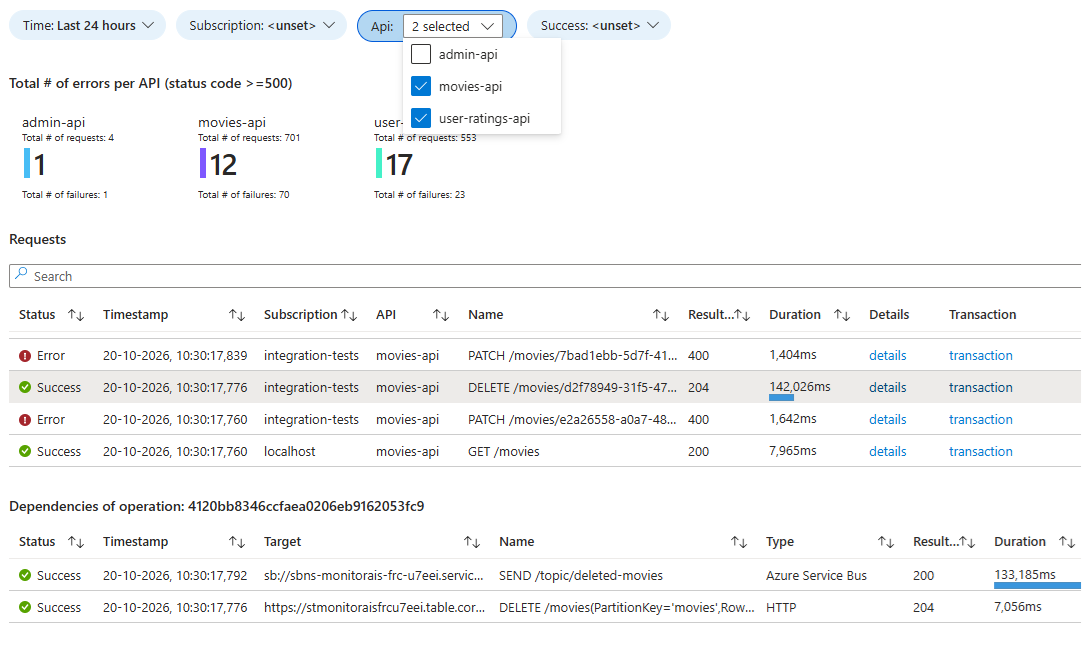
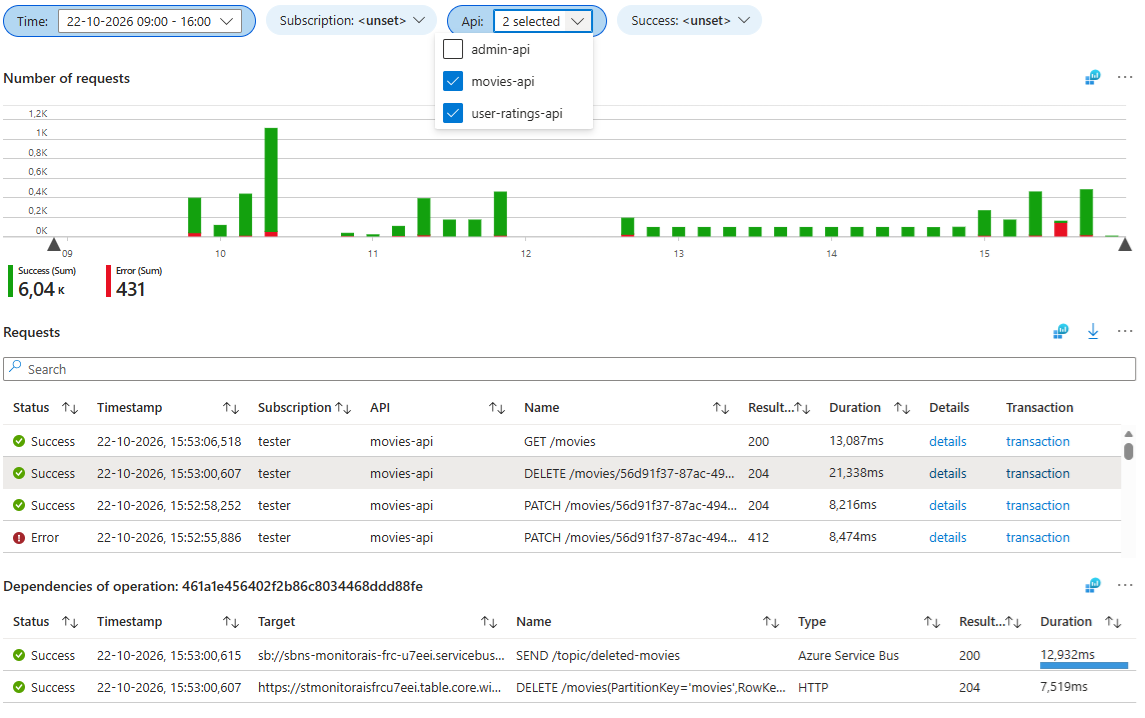
Automated Pipeline 20261022.4: Merge pull request #60 from ronaldbosma/update-azure-workbook-tips-and-tricks-2

diff --git a/blog/2023/03/10/deploy-azure-workbook-and-app-insights-function/index.html b/blog/2023/03/10/deploy-azure-workbook-and-app-insights-function/index.html
@@ -165,10 +165,10 @@
 <h3 id="deploy-workbook-based-on-arm-template">Deploy workbook based on ARM template</h3>
 <p>After you&rsquo;ve created your workbook, you can download an ARM Template of the workbook, which you can then convert to a Bicep script. To do this, open the workbook in Edit mode and click the Advanced Editor button.</p>
 <p><img src="../../../../../images/deploy-azure-workbook-and-app-insights-function/edit-workbook-advanced-editor.png" alt="Edit Workbook - Advanced Editor"></p>
-<p>Choose ARM Template as the Template Type and download the template. The result will look like <a href="https://github.com/ronaldbosma/blog-code-examples/blob/master/DeployAzureWorkbookAndAppInsightsFunction/arm-template/sample-arm-template.json">sample-arm-template.json</a>.</p>
+<p>Choose ARM Template as the Template Type and download the template. The result will look like <a href="https://github.com/ronaldbosma/azure-monitoring/blob/master/other/deploy-azure-workbook-and-appinsights-function/arm-template/sample-arm-template.json">sample-arm-template.json</a>.</p>
 <p>The ARM template can be decompiled to a Bicep script with the following Azure CLI command.</p>
 <div class="highlight"><pre tabindex="0" style="color:#f8f8f2;background-color:#272822;-moz-tab-size:4;-o-tab-size:4;tab-size:4"><code class="language-powershell" data-lang="powershell">az bicep decompile -<span style="color:#f92672">-file</span> .\sample-arm-template.json
-</code></pre></div><p>The result will be a Bicep file like the snippet below. See <a href="https://github.com/ronaldbosma/blog-code-examples/blob/master/DeployAzureWorkbookAndAppInsightsFunction/arm-template/sample-after-decompile.bicep">sample-after-decompile.bicep</a> for the full script.</p>
+</code></pre></div><p>The result will be a Bicep file like the snippet below. See <a href="https://github.com/ronaldbosma/azure-monitoring/blob/master/other/deploy-azure-workbook-and-appinsights-function/arm-template/sample-after-decompile.bicep">sample-after-decompile.bicep</a> for the full script.</p>
 <pre tabindex="0"><code class="language-bicep" data-lang="bicep">@description('The friendly name for the workbook that is used in the Gallery or Saved List.  This name must be unique within a resource group.')
 param workbookDisplayName string = 'Sample Workbook'
 
@@ -214,13 +214,13 @@ az deployment group create `
 </blockquote>
 <p>If you run this command multiple times, it will fail with the error <code>A Workbook with the same name already exists within this subscription</code>. The workbook id is different with every deployment, while the display name stays the same. You can fix this by generating a GUID based on a string that is the same for each deployment. See the example below.</p>
 <pre tabindex="0"><code>param workbookId string = guid('sample-workbook')
-</code></pre><p>A working sample with these changes can be found <a href="https://github.com/ronaldbosma/blog-code-examples/blob/master/DeployAzureWorkbookAndAppInsightsFunction/arm-template/sample.bicep">here</a>.</p>
+</code></pre><p>A working sample with these changes can be found <a href="https://github.com/ronaldbosma/azure-monitoring/blob/master/other/deploy-azure-workbook-and-appinsights-function/arm-template/sample.bicep">here</a>.</p>
 <p>The biggest downside of this solution is that the entire workbook definition is a serialized string on a single line. This makes it difficult to make minor changes directly in the definition or to see what has changed. To solve this problem, we can load the workbook definition from a separate file.</p>
 <h3 id="load-workbook-from-file">Load workbook from file</h3>
 <p>The first step is to download the workbook definition. Open the workbook in Edit mode and click the Advanced Editor button.</p>
 <p><img src="../../../../../images/deploy-azure-workbook-and-app-insights-function/edit-workbook-advanced-editor.png" alt="Edit Workbook - Advanced Editor"></p>
-<p>Choose Gallery Template as the Template Type and download the template. The result will be a JSON file containing only the definition of the workbook. It should look like <a href="https://raw.githubusercontent.com/ronaldbosma/blog-code-examples/master/DeployAzureWorkbookAndAppInsightsFunction/load-workbook-from-file/sample.workbook">sample.workbook</a>.</p>
-<p>We can&rsquo;t replace the application insights id with the <code>workbookSourceId</code> parameter like we did before, so I&rsquo;ve replaced the value inside <a href="https://raw.githubusercontent.com/ronaldbosma/blog-code-examples/master/DeployAzureWorkbookAndAppInsightsFunction/load-workbook-from-file/sample.workbook">sample.workbook</a> with a placeholder. You can do this for every environment specific value. See the example below.</p>
+<p>Choose Gallery Template as the Template Type and download the template. The result will be a JSON file containing only the definition of the workbook. It should look like <a href="https://raw.githubusercontent.com/ronaldbosma/azure-monitoring/master/other/deploy-azure-workbook-and-appinsights-function/load-workbook-from-file/sample.workbook">sample.workbook</a>.</p>
+<p>We can&rsquo;t replace the application insights id with the <code>workbookSourceId</code> parameter like we did before, so I&rsquo;ve replaced the value inside <a href="https://raw.githubusercontent.com/ronaldbosma/azure-monitoring/master/other/deploy-azure-workbook-and-appinsights-function/load-workbook-from-file/sample.workbook">sample.workbook</a> with a placeholder. You can do this for every environment specific value. See the example below.</p>
 <div class="highlight"><pre tabindex="0" style="color:#f8f8f2;background-color:#272822;-moz-tab-size:4;-o-tab-size:4;tab-size:4"><code class="language-json" data-lang="json"><span style="color:#e6db74">&#34;fallbackResourceIds&#34;</span><span style="color:#960050;background-color:#1e0010">:</span> [
   <span style="color:#e6db74">&#34;##applicationInsightsId##&#34;</span>
 ]<span style="color:#960050;background-color:#1e0010">,</span>
@@ -235,7 +235,7 @@ resource workbookId_resource 'microsoft.insights/workbooks@2022-04-01' = {
     ...
   }
 }
-</code></pre><p>As you can see, the definition is loaded from the file using the <code>loadTextContent</code> function. We then use the <code>replace</code> function to replace the placeholder. The last step is to set the <code>serializedData</code> property. See <a href="https://github.com/ronaldbosma/blog-code-examples/blob/master/DeployAzureWorkbookAndAppInsightsFunction/load-workbook-from-file/sample.bicep">sample.bicep</a> for the full sample.</p>
+</code></pre><p>As you can see, the definition is loaded from the file using the <code>loadTextContent</code> function. We then use the <code>replace</code> function to replace the placeholder. The last step is to set the <code>serializedData</code> property. See <a href="https://github.com/ronaldbosma/azure-monitoring/blob/master/other/deploy-azure-workbook-and-appinsights-function/load-workbook-from-file/sample.bicep">sample.bicep</a> for the full sample.</p>
 <blockquote>
 <p>If you want to know more about how to replace multiple placeholders in a string, see <a href="/blog/2024/06/21/replace-placeholders-in-string-with-user-defined-bicep-function">Replace placeholders in string with user-defined Bicep function</a>.</p>
 </blockquote>
@@ -256,16 +256,16 @@ az deployment group create `
 <p>I have explored another option to deploy a workbook. You can use a Bicep object for the workbook definition and place it directly in the Bicep script. The first version of this blog post was based on this solution.</p>
 <p>I&rsquo;ve found this solution to be to error prone though. Over the past weeks I encountered numerous issues with the generated Bicep and had to update the conversion script accordingly.</p>
 <p>I find that loading the workbook definition from a JSON file and doing a simple string replace on the placeholders is an easier way to deploy. It&rsquo;s less error prone and simpler to explain to other people.</p>
-<p>So, I would not recommend this solution given the disadvantages. If you&rsquo;re still interested, see this <a href="https://github.com/ronaldbosma/blog-code-examples/blob/master/DeployAzureWorkbookAndAppInsightsFunction/bicep-object/README.md">README</a>.</p>
+<p>So, I would not recommend this solution given the disadvantages. If you&rsquo;re still interested, see this <a href="https://github.com/ronaldbosma/azure-monitoring/blob/master/other/deploy-azure-workbook-and-appinsights-function/bicep-object/README.md">README</a>.</p>
 <h3 id="deploy-shared-function-in-app-insights">Deploy shared function in App Insights</h3>
 <p>The last step is to deploy <a href="/blog/2023/02/28/azure-workbook-tips-tricks#create-reusable-query">the shared function</a> that the workbook uses to query the API Management requests.</p>
-<p>I&rsquo;ve stored the following kusto query in a file called <a href="https://github.com/ronaldbosma/blog-code-examples/blob/master/DeployAzureWorkbookAndAppInsightsFunction/app-insights-function/ApimRequests.kql">ApimRequests.kql</a>. The environment specific API Management name has been replaced by the placeholder <code>##apimName##</code>.</p>
+<p>I&rsquo;ve stored the following kusto query in a file called <a href="https://github.com/ronaldbosma/azure-monitoring/blob/master/other/deploy-azure-workbook-and-appinsights-function/app-insights-function/ApimRequests.kql">ApimRequests.kql</a>. The environment specific API Management name has been replaced by the placeholder <code>##apimName##</code>.</p>
 <pre tabindex="0"><code class="language-kusto" data-lang="kusto">requests
 | where customDimensions[&quot;Service ID&quot;] == &quot;##apimName##&quot;
 | extend subscription = tostring(customDimensions[&quot;Subscription Name&quot;])
     , api = tostring(customDimensions[&quot;API Name&quot;])
 </code></pre><p>I thought I could use a similar approach as with the workbook and use the <a href="https://learn.microsoft.com/en-us/azure/templates/microsoft.insights/components/analyticsitems?pivots=deployment-language-bicep">analyticsItems</a> Bicep resource, but unfortunately this doesn&rsquo;t work at all. The problem has been reported on GitHub in <a href="https://github.com/Azure/bicep/issues/5518">this issue</a>.</p>
-<p>The Azure CLI doesn&rsquo;t provide any specific commands either. The only option seems to be to use the REST API. There is no page about creating an Application Insights function in <a href="https://learn.microsoft.com/en-us/rest/api/application-insights/">the REST API documentation</a>, but luckily I found <a href="https://blog.peterschen.de/create-functions-in-application-insights-through-rest-api/">this blog post</a> that describes the various operations.</p>
+<p>The Azure CLI doesn&rsquo;t provide any specific commands either. The only option seems to be to use the REST API. There is no page about creating an Application Insights function in <a href="https://learn.microsoft.com/en-us/rest/api/application-insights/">the REST API documentation</a>, but luckily I found <a href="https://www.peterschen.de/create-functions-in-application-insights-through-rest-api/">this blog post</a> that describes the various operations.</p>
 <p>The following <code>PUT</code> can be used to create a function.</p>
 <pre tabindex="0"><code>PUT https://management.azure.com/subscriptions/{subscriptionId}/resourceGroups/{resourceGroup}/providers/Microsoft.Insights/components/{applicationName}/analyticsItems/item?api-version=2015-05-01
 
@@ -312,7 +312,7 @@ az rest --method <span style="color:#e6db74">&#34;PUT&#34;</span> --url <span st
 </code></pre></div><p>As you can see. The first step is to load the file with the function query and escape any <code>&quot;</code> in the query. We then replace each placeholder with the environment specific value.</p>
 <p>Step two is to query the existing functions and check if a function with the same name already exists. If it does, we remove it.</p>
 <p>The last step is to (re)create the function. We first create a JSON file with the request body and then use the <code>az rest</code> command to execute the request.</p>
-<p>You can find a full working parameterized script <a href="https://github.com/ronaldbosma/blog-code-examples/blob/master/DeployAzureWorkbookAndAppInsightsFunction/app-insights-function/deploy-shared-function.ps1">here</a>. It can be executed with the following command.</p>
+<p>You can find a full working parameterized script <a href="https://github.com/ronaldbosma/azure-monitoring/blob/master/other/deploy-azure-workbook-and-appinsights-function/app-insights-function/deploy-shared-function.ps1">here</a>. It can be executed with the following command.</p>
 <div class="highlight"><pre tabindex="0" style="color:#f8f8f2;background-color:#272822;-moz-tab-size:4;-o-tab-size:4;tab-size:4"><code class="language-powershell" data-lang="powershell">$placeholders = @{
     <span style="color:#e6db74">&#34;apimName&#34;</span> = <span style="color:#e6db74">&#34;&lt;api management name&gt;&#34;</span>;
 }

diff --git a/blog/2023/02/28/azure-workbook-tips-tricks/index.html b/blog/2023/02/28/azure-workbook-tips-tricks/index.html
@@ -18,7 +18,7 @@
 <meta property="og:type" content="article" />
 <meta property="og:url" content="https://ronaldbosma.github.io/blog/2023/02/28/azure-workbook-tips-tricks/" /><meta property="og:image" content="https://ronaldbosma.github.io/blog/2023/02/28/azure-workbook-tips-tricks/cover.png"/><meta property="article:section" content="blog" />
 <meta property="article:published_time" content="2023-02-28T19:30:00+01:00" />
-<meta property="article:modified_time" content="2026-10-20T12:15:00+02:00" />
+<meta property="article:modified_time" content="2026-10-22T16:30:00+02:00" />
 
 
 
@@ -178,7 +178,11 @@
 <li><a href="#column-labels">Column Labels</a></li>
 </ul>
 </li>
-<li><a href="#totals-tiles">Totals (tiles)</a></li>
+<li><a href="#number-of-requests-graph">Number of Requests Graph</a>
+<ul>
+<li><a href="#time-brushing">Time Brushing</a></li>
+</ul>
+</li>
 <li><a href="#master-detail-table">Master-detail Table</a>
 <ul>
 <li><a href="#export-selection-from-master-table">Export Selection from Master Table</a></li>
@@ -212,7 +216,7 @@
 <p>The <code>timestamp</code> property is a property we can directly use in our queries because it&rsquo;s a column of the requests table. The <code>Service ID</code> and <code>API Name</code> are not default columns in the requests table because they are specific to API Management. These are stored in the <code>customDimensions</code> property and can be accessed with the syntax <code>customDimensions[&quot;Service ID&quot;]</code> and <code>customDimensions[&quot;API Name&quot;]</code>.</p>
 <p>When you specify your own custom properties to log from your application, you&rsquo;ll find them in this <code>customDimensions</code> property.</p>
 <h3 id="create-reusable-query">Create reusable query</h3>
-<p>We&rsquo;ll be reusing the same query in different parts of our workbook, so we&rsquo;re going to make a function. First, we&rsquo;ll cleanup the previously generated query to look like this:</p>
+<p>We&rsquo;ll be reusing the same query in different parts of our workbook, so we&rsquo;re going to make a function. First, we&rsquo;ll clean up the previously generated query to look like this:</p>
 <pre tabindex="0"><code class="language-kusto" data-lang="kusto">requests
 | where customDimensions[&quot;Service ID&quot;] == &quot;apim-monitorais-frc-u7eei&quot;
 | extend subscription = tostring(customDimensions[&quot;Subscription Name&quot;])
@@ -322,7 +326,7 @@ ApimRequests
     , operation_Id
 | order by timestamp desc
 </code></pre><p>The subscription and api filters are like the one in the query of the Api parameter.</p>
-<p>The Success parameter was not multiselect, so <code>let successFilter = '{Success}';</code> will be empty if nothing is selected, <code>true</code> if yes is selected and <code>false</code> if no is selected. With the filter <code>| where isempty(successFilter) or success == tobool(successFilter)</code> we either show all request or the requests that were (un)successful.</p>
+<p>The Success parameter was not multiselect, so <code>let successFilter = '{Success}';</code> will be empty if nothing is selected, <code>true</code> if yes is selected and <code>false</code> if no is selected. With the filter <code>| where isempty(successFilter) or success == tobool(successFilter)</code> we either show all requests or the requests that were (un)successful.</p>
 <p>With the <code>project</code> keyword we specify a list of columns to display in the table. The <code>status</code> column uses <a href="https://learn.microsoft.com/en-us/kusto/query/iff-function?view=microsoft-fabric"><code>iif</code></a> to display <code>success</code> when the request succeeded and <code>error</code> otherwise. We&rsquo;ll use this to display an icon further on. The <code>itemId</code> is displayed twice in both the <code>details</code> and <code>transaction</code> column. We&rsquo;ll use these to create links to the request details.</p>
 <p>The query is executed when you click the Run Query button. You can filter the data by changing the values of the parameters. For example, select &lsquo;no&rsquo; in the Success parameter to show all failed requests.</p>
 <p>You can configure more settings in the Advanced Settings tab. I&rsquo;ve set the chart title to &lsquo;Requests&rsquo;. I also like to check the following options:</p>
@@ -409,27 +413,55 @@ ApimRequests
 </ul>
 <p><img src="../../../../../images/azure-workbook-tips-and-tricks/column-labels.png" alt="Column Labels"></p>
 <p>Choose &lsquo;Save and Close&rsquo; to see the results.</p>
-<h3 id="totals-tiles">Totals (Tiles)</h3>
-<p>Besides tables you can also use other visualizations to display your query results. One I like to use is tiles. You can use it to for instance show the total number of requests, failures and errors per API. See the example below.</p>
-<p><img src="../../../../../images/azure-workbook-tips-and-tricks/tiles-totals.png" alt="Total Tiles"></p>
-<p>Start by adding another query to the workbook. Select Time as the Time Range, Tiles as the Visualization and Tiny as the Size.</p>
-<p>Add the following query.</p>
-<pre tabindex="0"><code class="language-kusto" data-lang="kusto">ApimRequests
-| summarize 
-        requests=strcat('Total # of requests: ', count()), 
-        failures=strcat('Total # of failures: ', countif(success==false)),
-        errors=countif(toint(resultCode)&gt;=500)
-    by api
-</code></pre><p>This query groups the results by api and counts all requests, all failed requests and all requests with result code &gt;= 500. To clarify what the different numbers are, I&rsquo;ve included a bit of text in the results.</p>
-<p>If you run the query, you&rsquo;ll notice that it doesn&rsquo;t quite look the same as the example above. We need to customize the tile.</p>
-<p>Choose Tile Settings. The api is already the title and the errors are displayed as the big number on the left.</p>
-<p>To add the total number of requests. Select the Subtitle field and select requests as the column to use. To add the total number of failures. Select the Bottom field and select failures as the column to use.</p>
-<p>You can also configure on what property to order the results. Select api as the Sort Criteria under Sort Settings and Ascending as the Sort Order.</p>
-<p>The Tile Settings screen should look like this.</p>
-<p><img src="../../../../../images/azure-workbook-tips-and-tricks/tiles-settings.png" alt="Tiles Settings"></p>
-<p>Choose &lsquo;Save and Close&rsquo;.</p>
-<p>We can add a title to the chart to clarify what is displayed. Go to Advanced Settings and set the chart title to <code>Total # of errors per API (status code &gt;=500)</code>. I also like to check &lsquo;Show open external query button when not editing&rsquo;, &lsquo;Show refresh icon when not editing&rsquo; and &lsquo;Show Export to CSV button when not editing&rsquo;.</p>
-<p>I usually display the totals above a table. You can move the Tiles section above the table by choosing &lsquo;Move &gt; Move up&rsquo;.</p>
+<h3 id="number-of-requests-graph">Number of Requests Graph</h3>
+<p>Besides tables you can also use other visualizations to display your query results. A graph that shows the number of requests over time gives a quick impression of the traffic and when errors occur. See the example below.</p>
+<p><img src="../../../../../images/azure-workbook-tips-and-tricks/number-of-requests-chart.png" alt="Number of Requests Chart"></p>
+<p>Start by adding another query to the workbook with &lsquo;Add &gt; Add query&rsquo;. Select Time as the Time Range and Bar chart as the Visualization.</p>
+<p>Add the following query:</p>
+<pre tabindex="0"><code class="language-kusto" data-lang="kusto">let subscriptionFilter = dynamic([{Subscription}]);
+let apiFilter = dynamic([{Api}]);
+let successFilter = '{Success}';
+
+ApimRequests
+| where array_length(subscriptionFilter) == 0 or subscription in (subscriptionFilter)
+| where array_length(apiFilter) == 0 or api in (apiFilter)
+| where isempty(successFilter) or success == tobool(successFilter)
+| make-series numberOfRequests=count() default=0 on timestamp from todatetime(&quot;{Time:startISO}&quot;) to todatetime(&quot;{Time:endISO}&quot;) step {Time:grain} by success
+</code></pre><p>The filters are the same as in the table query. The query then uses <a href="https://learn.microsoft.com/en-us/kusto/query/make-series-operator"><code>make-series</code></a> instead of <code>summarize</code> with <code>bin</code>, because a <code>summarize</code> only returns time slots that have data. With <code>make-series</code>, the graph always shows the entire selected time period, even if there are no requests at the start or end of the period.</p>
+<p>The <code>make-series</code> operator is configured as follows:</p>
+<ul>
+<li><code>from</code> and <code>to</code> use the <code>{Time:startISO}</code> and <code>{Time:endISO}</code> properties of the Time parameter, so the series covers the selected time range.</li>
+<li><code>step</code> uses <code>{Time:grain}</code>. This way, the granularity is automatically adjusted depending on the time range you&rsquo;ve selected in the Time parameter.</li>
+<li><code>default=0</code> makes sure time slots without requests get the value 0 instead of null.</li>
+<li><code>by success</code> splits the results, so you get a separate series for successful and failed requests.</li>
+</ul>
+<p>To configure the color and labels, follow these steps:</p>
+<ul>
+<li>Click on the &lsquo;Chart Settings&rsquo; button in the &lsquo;Settings&rsquo; tab</li>
+<li>Open the &lsquo;Series Settings&rsquo; tab</li>
+<li>Specify a display label and color for each series</li>
+</ul>
+<p><img src="../../../../../images/azure-workbook-tips-and-tricks/number-of-requests-chart-settings.png" alt="Number of Requests Chart Settings"></p>
+<p>Choose &lsquo;Save and Close&rsquo; to see the results.</p>
+<p>I usually display a graph like this above a table. You can move it up by choosing &lsquo;Move &gt; Move up&rsquo;.</p>
+<h4 id="time-brushing">Time Brushing</h4>
+<p>The graph supports time brushing, which means you can select a time period in the graph and all data in the workbook will be filtered accordingly.</p>
+<p><img src="../../../../../images/azure-workbook-tips-and-tricks/time-brushing.png" alt="Time Brushing"></p>
+<p>To configure time brushing, you first enable it on the graph:</p>
+<ol>
+<li>Open the &lsquo;Advanced Settings&rsquo; of the graph.</li>
+<li>Check &lsquo;Enable time range brushing&rsquo;.</li>
+<li>Use <code>Time</code> as the parameter name. This is the same name as the time range parameter at the top of the workbook, which all queries use to filter on time.</li>
+<li>Check &lsquo;Only export the parameter when a range is brushed&rsquo;.</li>
+</ol>
+<p><img src="../../../../../images/azure-workbook-tips-and-tricks/enable-time-brushing.png" alt="Enable Time Brushing"></p>
+<p>Next, edit the <code>Time</code> parameter:</p>
+<ol>
+<li>Go to &lsquo;Advanced Settings&rsquo;.</li>
+<li>Check &lsquo;Treat this parameter as a global&rsquo;.</li>
+</ol>
+<p><img src="../../../../../images/azure-workbook-tips-and-tricks/time-global-parameter.png" alt="Time Global Parameter"></p>
+<p>With this configuration, the time range selected in the drop-down is used by default. When you select a different time range in the graph, the <code>Time</code> parameter is updated and all data is filtered using the brushed range instead.</p>
 <h3 id="master-detail-table">Master-detail Table</h3>
 <p>Tables and other items provide the option to select data. We can use that selection as a filter in other items.</p>
 <p>As an example, we&rsquo;ll create a master-detail table. When a request in the master table is selected, all dependencies that have the same operation id will be displayed in the details table. See the example below.</p>
@@ -488,8 +520,8 @@ ApimRequests
 </ul>
 <p>Here are links to the exported workbook and shared function:</p>
 <ul>
-<li><a href="https://raw.githubusercontent.com/ronaldbosma/blog-code-examples/master/AzureWorkbookTipsAndTricks/API%20Management%20Requests.workbook">API Management Requests.workbook</a></li>
-<li><a href="https://github.com/ronaldbosma/blog-code-examples/blob/master/AzureWorkbookTipsAndTricks/ApimRequests.kql">ApimRequests.kql</a></li>
+<li><a href="https://github.com/ronaldbosma/azure-monitoring/blob/main/other/azure-workbook-tips-and-tricks/API%20Management%20Requests.workbook">API Management Requests.workbook</a></li>
+<li><a href="https://github.com/ronaldbosma/azure-monitoring/blob/main/other/azure-workbook-tips-and-tricks/ApimRequests.kql">ApimRequests.kql</a></li>
 </ul>
 <p>In my blog post <a href="/blog/2023/03/10/deploy-azure-workbook-and-app-insights-function/">Deploy Azure Workbook and App Insights Function</a> I show you how to deploy this workbook using Bicep and the Azure CLI.</p>
 
